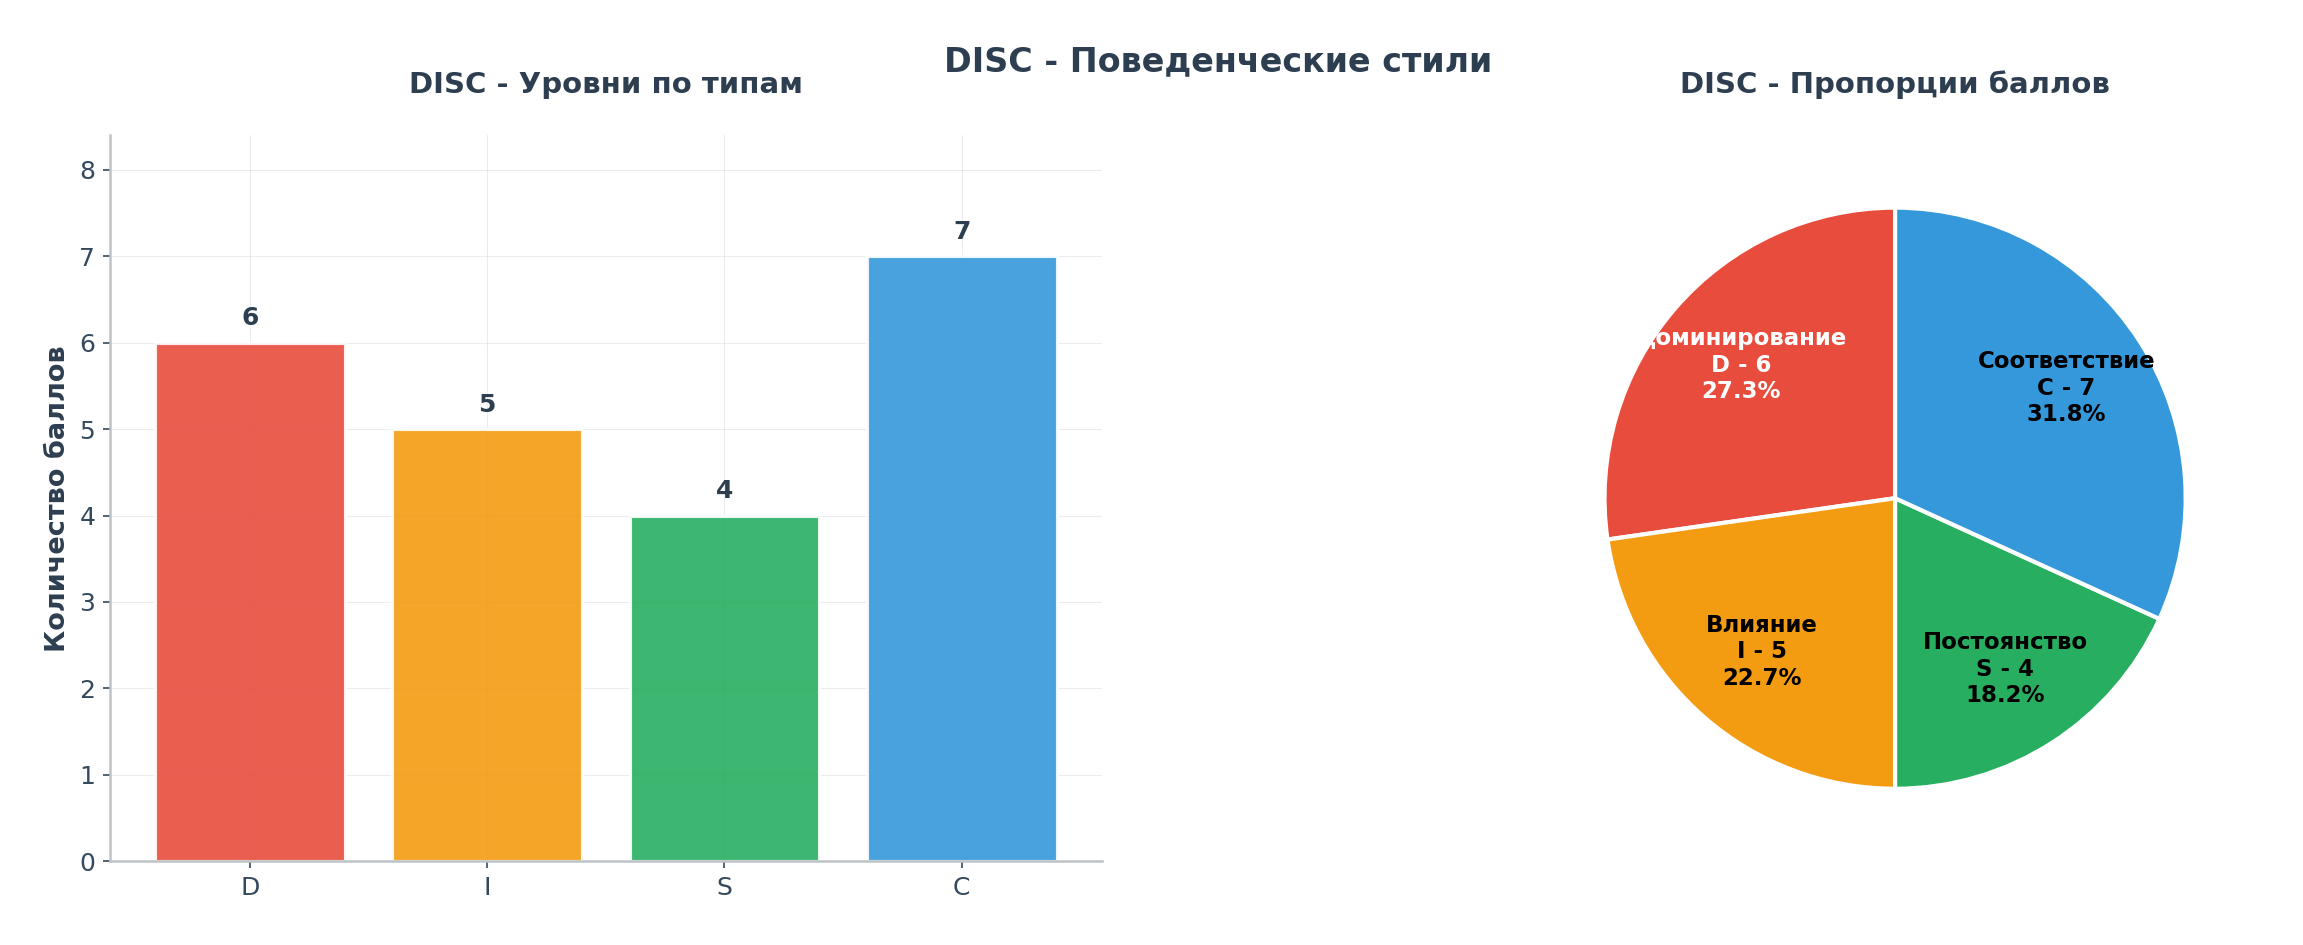
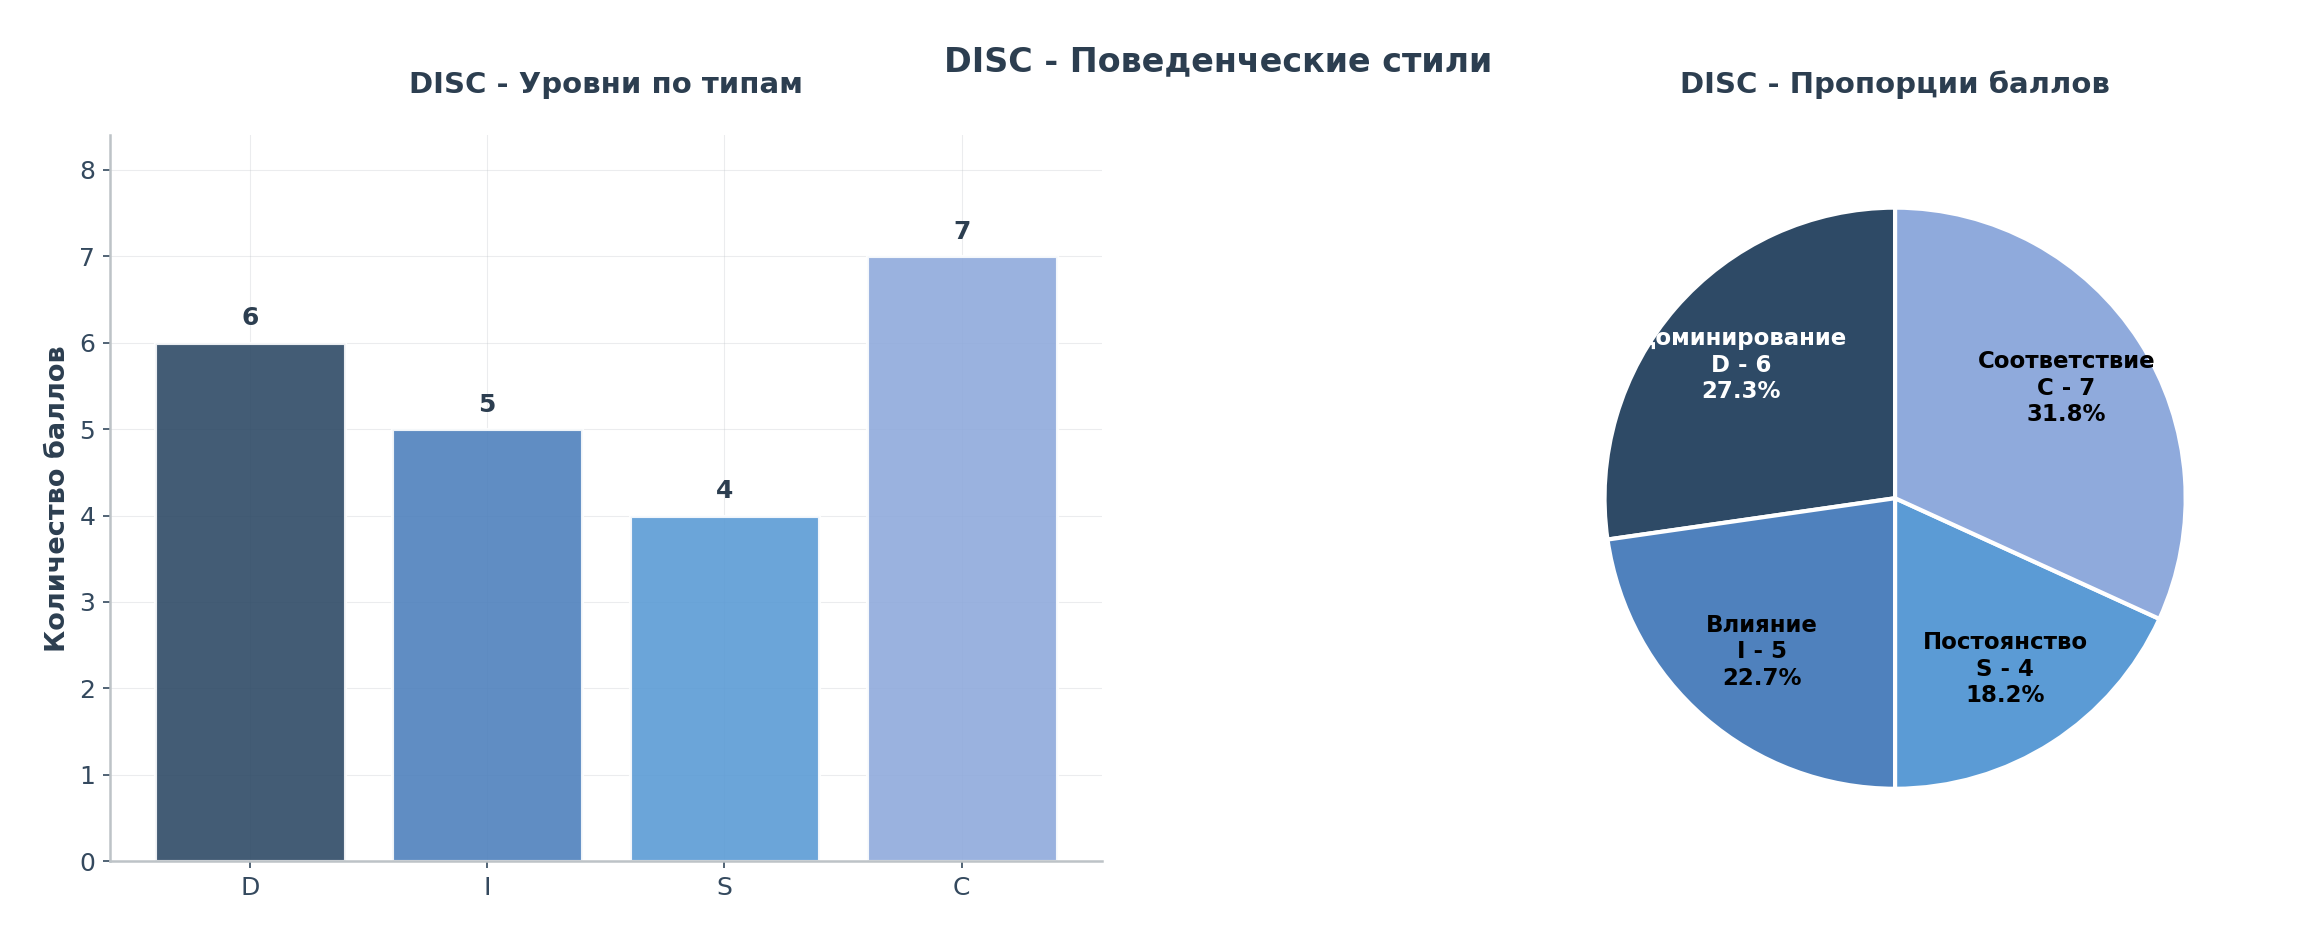
feat: HEXACO radar chart now shows full Russian abbreviations in PDF report

Changed region(s): [[0.0617, 0.2455, 0.4624, 0.9206], [0.6782, 0.2148, 0.9557, 0.8286]]

diff --git a/src/psytest/charts.py b/src/psytest/charts.py
@@ -15,6 +15,50 @@ PRINT_COLORS = {
     'background': '#FFFFFF'     # Белый фон
 }
 
+# Профессиональная палитра для психологических тестов
+# Основана на принципах психологии цвета и читаемости при печати
+PSYCH_COLORS = {
+    # PAEI цвета - спокойные профессиональные тона
+    'PAEI': {
+        'P': '#2E4A66',      # Глубокий синий (Производитель - стабильность, надежность)
+        'A': '#5B9BD5',      # Средний синий (Администратор - организованность, порядок)  
+        'E': '#4F81BD',      # Яркий синий (Предприниматель - инновации, динамика)
+        'I': '#8FAADC'       # Светлый синий (Интегратор - гармония, объединение)
+    },
+    
+    # DISC цвета - спокойная палитра в стиле PAEI (оттенки синего)
+    'DISC': {
+        'D': '#2E4A66',      # Глубокий синий (Доминирование - сила, решительность)
+        'I': '#4F81BD',      # Средний синий (Влияние - общительность, энтузиазм)
+        'S': '#5B9BD5',      # Яркий синий (Постоянство - стабильность, поддержка)
+        'C': '#8FAADC'       # Светлый синий (Соответствие - точность, анализ)
+    },
+    
+    # HEXACO цвета - гармоничная градация
+    'HEXACO': {
+        'H': '#8064A2',      # Фиолетовый (Честность-Скромность)
+        'E': '#C55A5A',      # Кораллово-красный (Эмоциональность)
+        'X': '#4F81BD',      # Синий (Экстраверсия)
+        'A': '#70AD47',      # Зеленый (Доброжелательность)
+        'C': '#E5B845',      # Желтый (Добросовестность)
+        'O': '#9BBB59'       # Оливковый (Открытость опыту)
+    },
+    
+    # Soft Skills цвета - мягкие тона
+    'SOFT_SKILLS': [
+        '#4F81BD',  # Синий
+        '#70AD47',  # Зеленый
+        '#E5B845',  # Желтый
+        '#C55A5A',  # Красный
+        '#8064A2',  # Фиолетовый
+        '#5B9BD5',  # Голубой
+        '#9BBB59',  # Оливковый
+        '#2E4A66',  # Темно-синий
+        '#8FAADC',  # Светло-синий
+        '#B85450'   # Темно-красный
+    ]
+}
+
 def normalize_chart_values(values: List[float], method: str = "adaptive") -> Tuple[List[float], float, str]:
     """
     Нормализует значения для сбалансированных диаграмм
@@ -368,13 +412,8 @@ def make_paei_combined_chart(labels, values, out_path: Path, title: str = "") ->
         out_path: Путь для сохранения файла
         title: Заголовок диаграммы
     """
-    # Цветовая схема как на изображении
-    colors = {
-        'Производитель': '#2F4F4F',      # Темно-серый (производитель)
-        'Администратор': '#87CEEB',      # Светло-голубой (администратор)  
-        'Предприниматель': '#4682B4',     # Стальной синий (предприниматель)
-        'Интегратор': '#B0C4DE'          # Светло-стальной синий (интегратор)
-    }
+    # Сбалансированная цветовая схема PAEI
+    colors = PSYCH_COLORS['PAEI']
     
     # Подготовка данных
     total = sum(values)
@@ -389,7 +428,7 @@ def make_paei_combined_chart(labels, values, out_path: Path, title: str = "") ->
     }
     
     russian_labels = [label_mapping.get(label, label) for label in labels]
-    chart_colors = [colors.get(rus_label, '#4682B4') for rus_label in russian_labels]
+    chart_colors = [colors.get(label, '#4F81BD') for label in labels]
     
     # Настройка matplotlib для качественной печати на полную ширину
     plt.rcParams.update({
@@ -478,13 +517,8 @@ def make_disc_combined_chart(labels, values, out_path: Path, title: str = "") ->
         out_path: Путь для сохранения файла
         title: Заголовок диаграммы
     """
-    # Цветовая схема для DISC
-    colors = {
-        'D': '#E74C3C',      # Красный (доминирование)
-        'I': '#F39C12',      # Оранжевый (влияние)  
-        'S': '#27AE60',      # Зеленый (постоянство)
-        'C': '#3498DB'       # Синий (соответствие)
-    }
+    # Сбалансированная цветовая схема DISC
+    colors = PSYCH_COLORS['DISC']
     
     # Подготовка данных
     total = sum(values)
@@ -575,5 +609,102 @@ def make_disc_combined_chart(labels, values, out_path: Path, title: str = "") ->
     fig.savefig(out_path, format='png', bbox_inches='tight', 
                 pad_inches=0.3, facecolor='white', 
                 edgecolor='none', dpi=150)
+    plt.close(fig)
+    return out_path
+
+def make_hexaco_radar(labels, values, out_path: Path, title: str = "", max_value: int = 100, 
+                     normalize: bool = True, normalize_method: str = "adaptive"):
+    """
+    Создает радарную диаграмму HEXACO с расшифровками аббревиатур
+    
+    Args:
+        labels: Аббревиатуры HEXACO (H, E, X, A, C, O)
+        values: Значения для каждой оси
+        out_path: Путь для сохранения файла
+        title: Заголовок диаграммы
+        max_value: Максимальное значение шкалы (игнорируется при normalize=True)
+        normalize: Применять ли нормализацию для баланса
+        normalize_method: Метод нормализации
+    """
+    # Маппинг аббревиатур на полные названия (как на скриншоте)
+    hexaco_mapping = {
+        'H': 'H - Честность',
+        'E': 'E - Эмоциональность', 
+        'X': 'X - Экстраверсия',
+        'A': 'A - Доброжелательность',
+        'C': 'C - Добросовестность',
+        'O': 'O - Открытость'
+    }
+    
+    # Создаем расширенные лейблы
+    extended_labels = [hexaco_mapping.get(label, label) for label in labels]
+    
+    # Нормализуем значения если требуется
+    if normalize:
+        norm_values, max_norm, method_used = normalize_chart_values(values, normalize_method)
+        actual_max = max_norm * 1.1
+        display_values = norm_values
+        # Добавляем информацию о нормализации в заголовок
+        if method_used not in ["без_нормализации", "исходные"] and title:
+            title = f"{title} (норм: {method_used})"
+    else:
+        display_values = values
+        actual_max = max_value
+        method_used = "отключена"
+    # Настройка matplotlib для качественной печати
+    plt.rcParams.update({
+        'font.size': 10,
+        'font.family': 'sans-serif',
+        'axes.linewidth': 1.0,
+        'grid.linewidth': 0.6,
+        'lines.linewidth': 2.0,
+        'figure.dpi': 300,
+        'savefig.dpi': 300,
+        'savefig.bbox': 'tight',
+        'savefig.pad_inches': 0.15
+    })
+    N = len(extended_labels)
+    angles = [n / float(N) * 2 * pi for n in range(N)]
+    angles += angles[:1]
+    vals = list(display_values) + display_values[:1]
+    # Создание фигуры с увеличенным размером для длинных лейблов
+    fig = plt.figure(figsize=(7, 7), facecolor=PRINT_COLORS['background'])
+    ax = plt.subplot(111, polar=True)
+    # Настройка полярных осей
+    ax.set_theta_offset(pi / 2)
+    ax.set_theta_direction(-1)
+    # Установка меток осей с расширенными названиями
+    ax.set_xticks(angles[:-1])
+    ax.set_xticklabels(extended_labels, fontsize=9, color=PRINT_COLORS['primary'])
+    # Улучшенная радиальная сетка
+    if actual_max <= 4:
+        tick_step = 1
+    elif actual_max <= 8:
+        tick_step = 2
+    else:
+        tick_step = max(1, int(actual_max / 4))
+    ax.set_ylim(0, actual_max)
+    ticks = np.arange(0, actual_max, tick_step)
+    ax.set_yticks(ticks)
+    ax.set_yticklabels([f'{t:.1f}' for t in ticks], 
+                      fontsize=8, color=PRINT_COLORS['secondary'])
+    # Улучшенная стилизация сетки
+    ax.grid(True, color=PRINT_COLORS['light'], linewidth=0.6, alpha=0.8)
+    ax.set_facecolor(PRINT_COLORS['background'])
+    # Рисование диаграммы с цветом HEXACO
+    hexaco_color = PSYCH_COLORS['HEXACO'].get('H', PRINT_COLORS['accent'])  # Используем цвет H как основной
+    line = ax.plot(angles, vals, color=hexaco_color, linewidth=2.5, 
+                  marker='o', markersize=6, markerfacecolor=hexaco_color, 
+                  markeredgecolor=PRINT_COLORS['background'], markeredgewidth=2)
+    # Заливка области
+    ax.fill(angles, vals, color=hexaco_color, alpha=0.15)
+    # Заголовок
+    if title:
+        plt.title(title, pad=25, fontsize=11, fontweight='bold', 
+                 color=PRINT_COLORS['primary'])
+    # Сохранение
+    fig.savefig(out_path, format='png', bbox_inches='tight', 
+                pad_inches=0.2, facecolor=PRINT_COLORS['background'], 
+                edgecolor='none')
     plt.close(fig)
     return out_path

diff --git a/enhanced_pdf_report_v2.py b/enhanced_pdf_report_v2.py
@@ -35,7 +35,7 @@ except ImportError:
     print("⚠ AI интерпретатор недоступен - будут использованы статические интерпретации")
 import numpy as np
 
-from src.psytest.charts import make_radar, make_bar_chart, make_paei_combined_chart, make_disc_combined_chart
+from src.psytest.charts import make_radar, make_bar_chart, make_paei_combined_chart, make_disc_combined_chart, make_hexaco_radar
 
 # Константы для минималистичного дизайна
 class DesignConfig:
@@ -96,6 +96,12 @@ class EnhancedCharts:
                                   title: str, out_path: Path) -> Path:
         """Создаёт комбинированную диаграмму DISC (столбиковая + круговая)"""
         return make_disc_combined_chart(labels, values, out_path, title=title)
+        
+    @staticmethod
+    def create_hexaco_radar(labels: List[str], values: List[float], 
+                          title: str, out_path: Path) -> Path:
+        """Создаёт радарную диаграмму HEXACO с расшифровками аббревиатур"""
+        return make_hexaco_radar(labels, values, out_path, title=title)
 
 
 class EnhancedPDFReportV2:
@@ -631,12 +637,12 @@ class EnhancedPDFReportV2:
                                              "Soft Skills", soft_radar_path)
         charts['soft_skills'] = soft_radar_path
         
-        # HEXACO диаграмма (радарная)
+        # HEXACO диаграмма (радарная с расшифровками)
         hexaco_labels = list(hexaco_scores.keys())
         hexaco_values = list(hexaco_scores.values())
         hexaco_path = self.template_dir / "hexaco_radar.png"
-        EnhancedCharts.create_minimalist_radar(hexaco_labels, hexaco_values,
-                                             "HEXACO", hexaco_path)
+        EnhancedCharts.create_hexaco_radar(hexaco_labels, hexaco_values,
+                                         "HEXACO", hexaco_path)
         charts['hexaco'] = hexaco_path
         
         # DISC диаграмма (комбинированная - столбиковая + круговая)  
